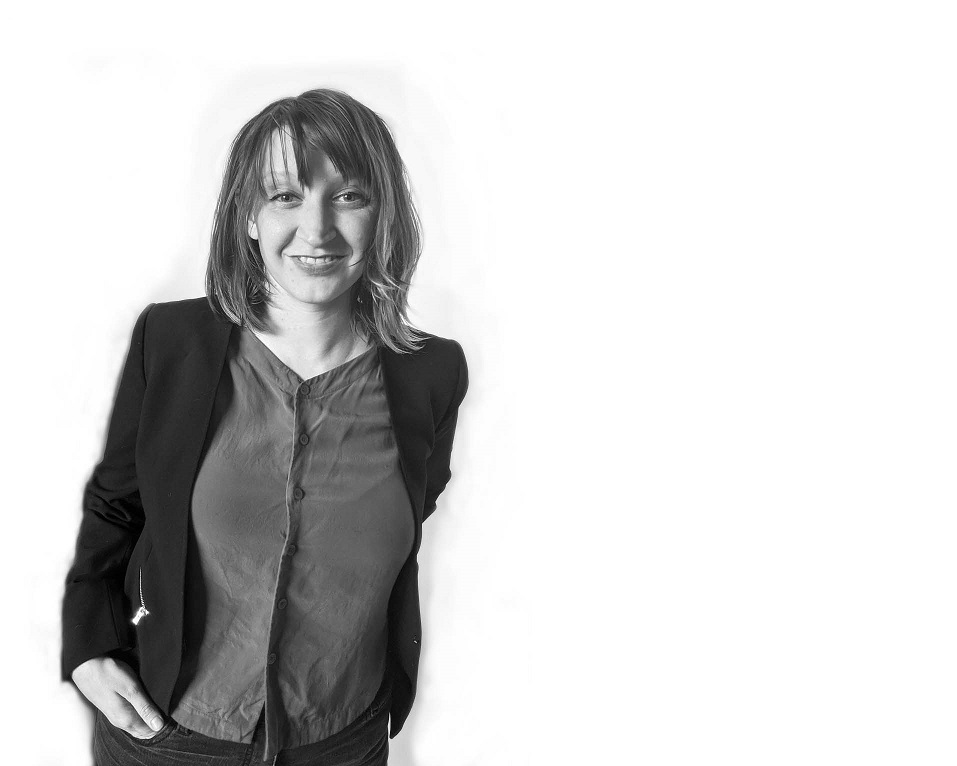
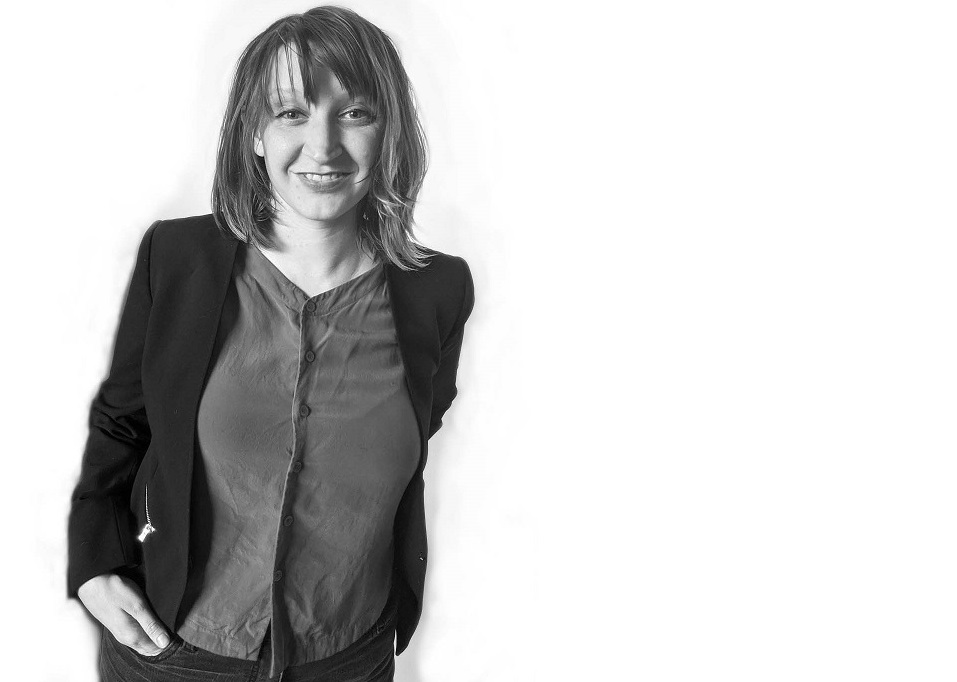
syle: adjusting intro jumbotron padding, margins and cropping headshot img

Changed region(s): [[0.0606, 0.0, 0.5152, 1.0]]

diff --git a/assets/css/homepageStyle.css b/assets/css/homepageStyle.css
@@ -5,6 +5,11 @@
   font-family: 'Trebuchet MS', 'Lucida Sans Unicode', 'Lucida Grande', 'Lucida Sans', Arial, sans-serif;
 }
 
+.jumbotron #intro {
+  margin: 0px;
+  padding: 0px;
+}
+
 #intro-image {
   height: 100%;
   margin-bottom: 0px;
